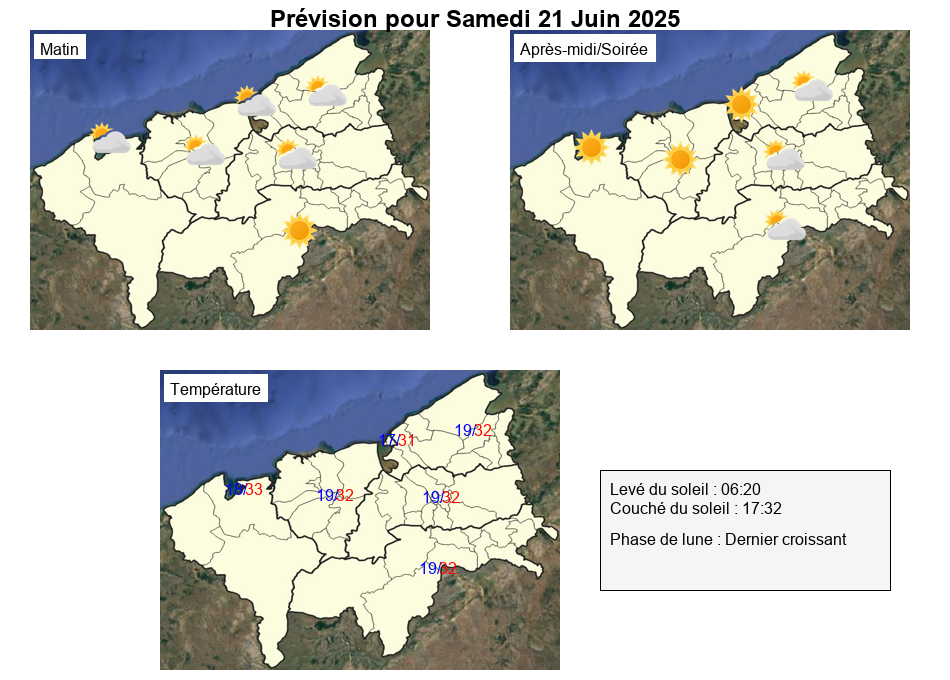
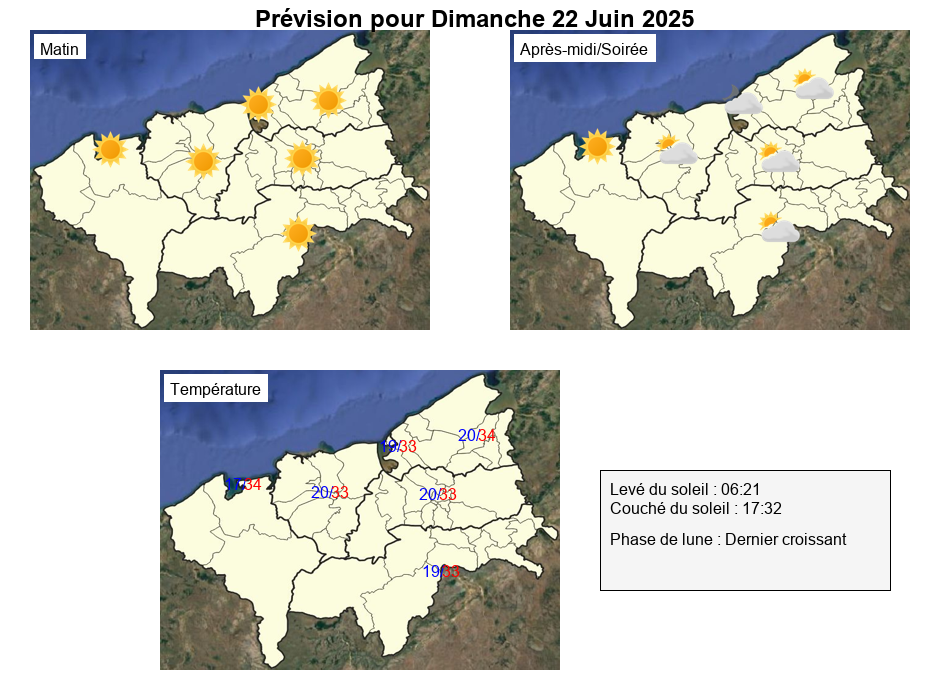
Frcst on 21/06/2025
Frcst on 21/06/2025

diff --git a/script.js b/script.js
@@ -8,22 +8,22 @@ const messages = [
     Restez informé en cas d’évolution de la situation.`,
 
     ` **Prévisions – Jour 1 (Aujourd’hui)**  
-    Temps ensoleillé toute la matinée et peu nuageux l'après-midi et le soir.
+    Temps ensoleillé toute la matinée et peu nuageux l'après-midi et le soir sur la partie Est de la Région.
     Vents : Vents légers à modéré de secteur E
     Températures minimales : entre 17 et 19 °C
-    Températures maximales : avoisinant les 32 °C.`,
+    Températures maximales : entre 32 et 33 °C.`,
 
     ` **Prévisions – Jour 2 (Demain)**  
-    Temps partiellement nuageux toute la journée.
-    Vents : Vents légers de secteur E
-    Températures minimales : entre 17 et 19 °C
-    Températures maximales : entre 31 et 33 °C.`,
+    Temps ensoleillé le matin, devenant partiellement nuageux l'après-midi et le soir.
+    Vents : Vents légers à modéré de secteur E
+    Températures minimales : entre 17 et 20 °C
+    Températures maximales : entre 33 et 34 °C.`,
 
     ` **Prévisions – Jour 3 (Après-demain)**  
-    Temps ensoleillé le matin, peu nuageux dans quelques endroits l'après-midi.
-    Vents : Vents légers de secteur ESE
-    Températures minimales : entre 18 et 20 °C
-    Températures maximales : entre 32 et 34 °C.`
+    Temps ensoleillé le matin, peu nuageux l'après-midi.
+    Vents : Vents légers de secteur E
+    Températures minimales : entre 19 et 20 °C
+    Températures maximales : entre 33 et 34 °C.`
 ];
 
 const imageSets = [
